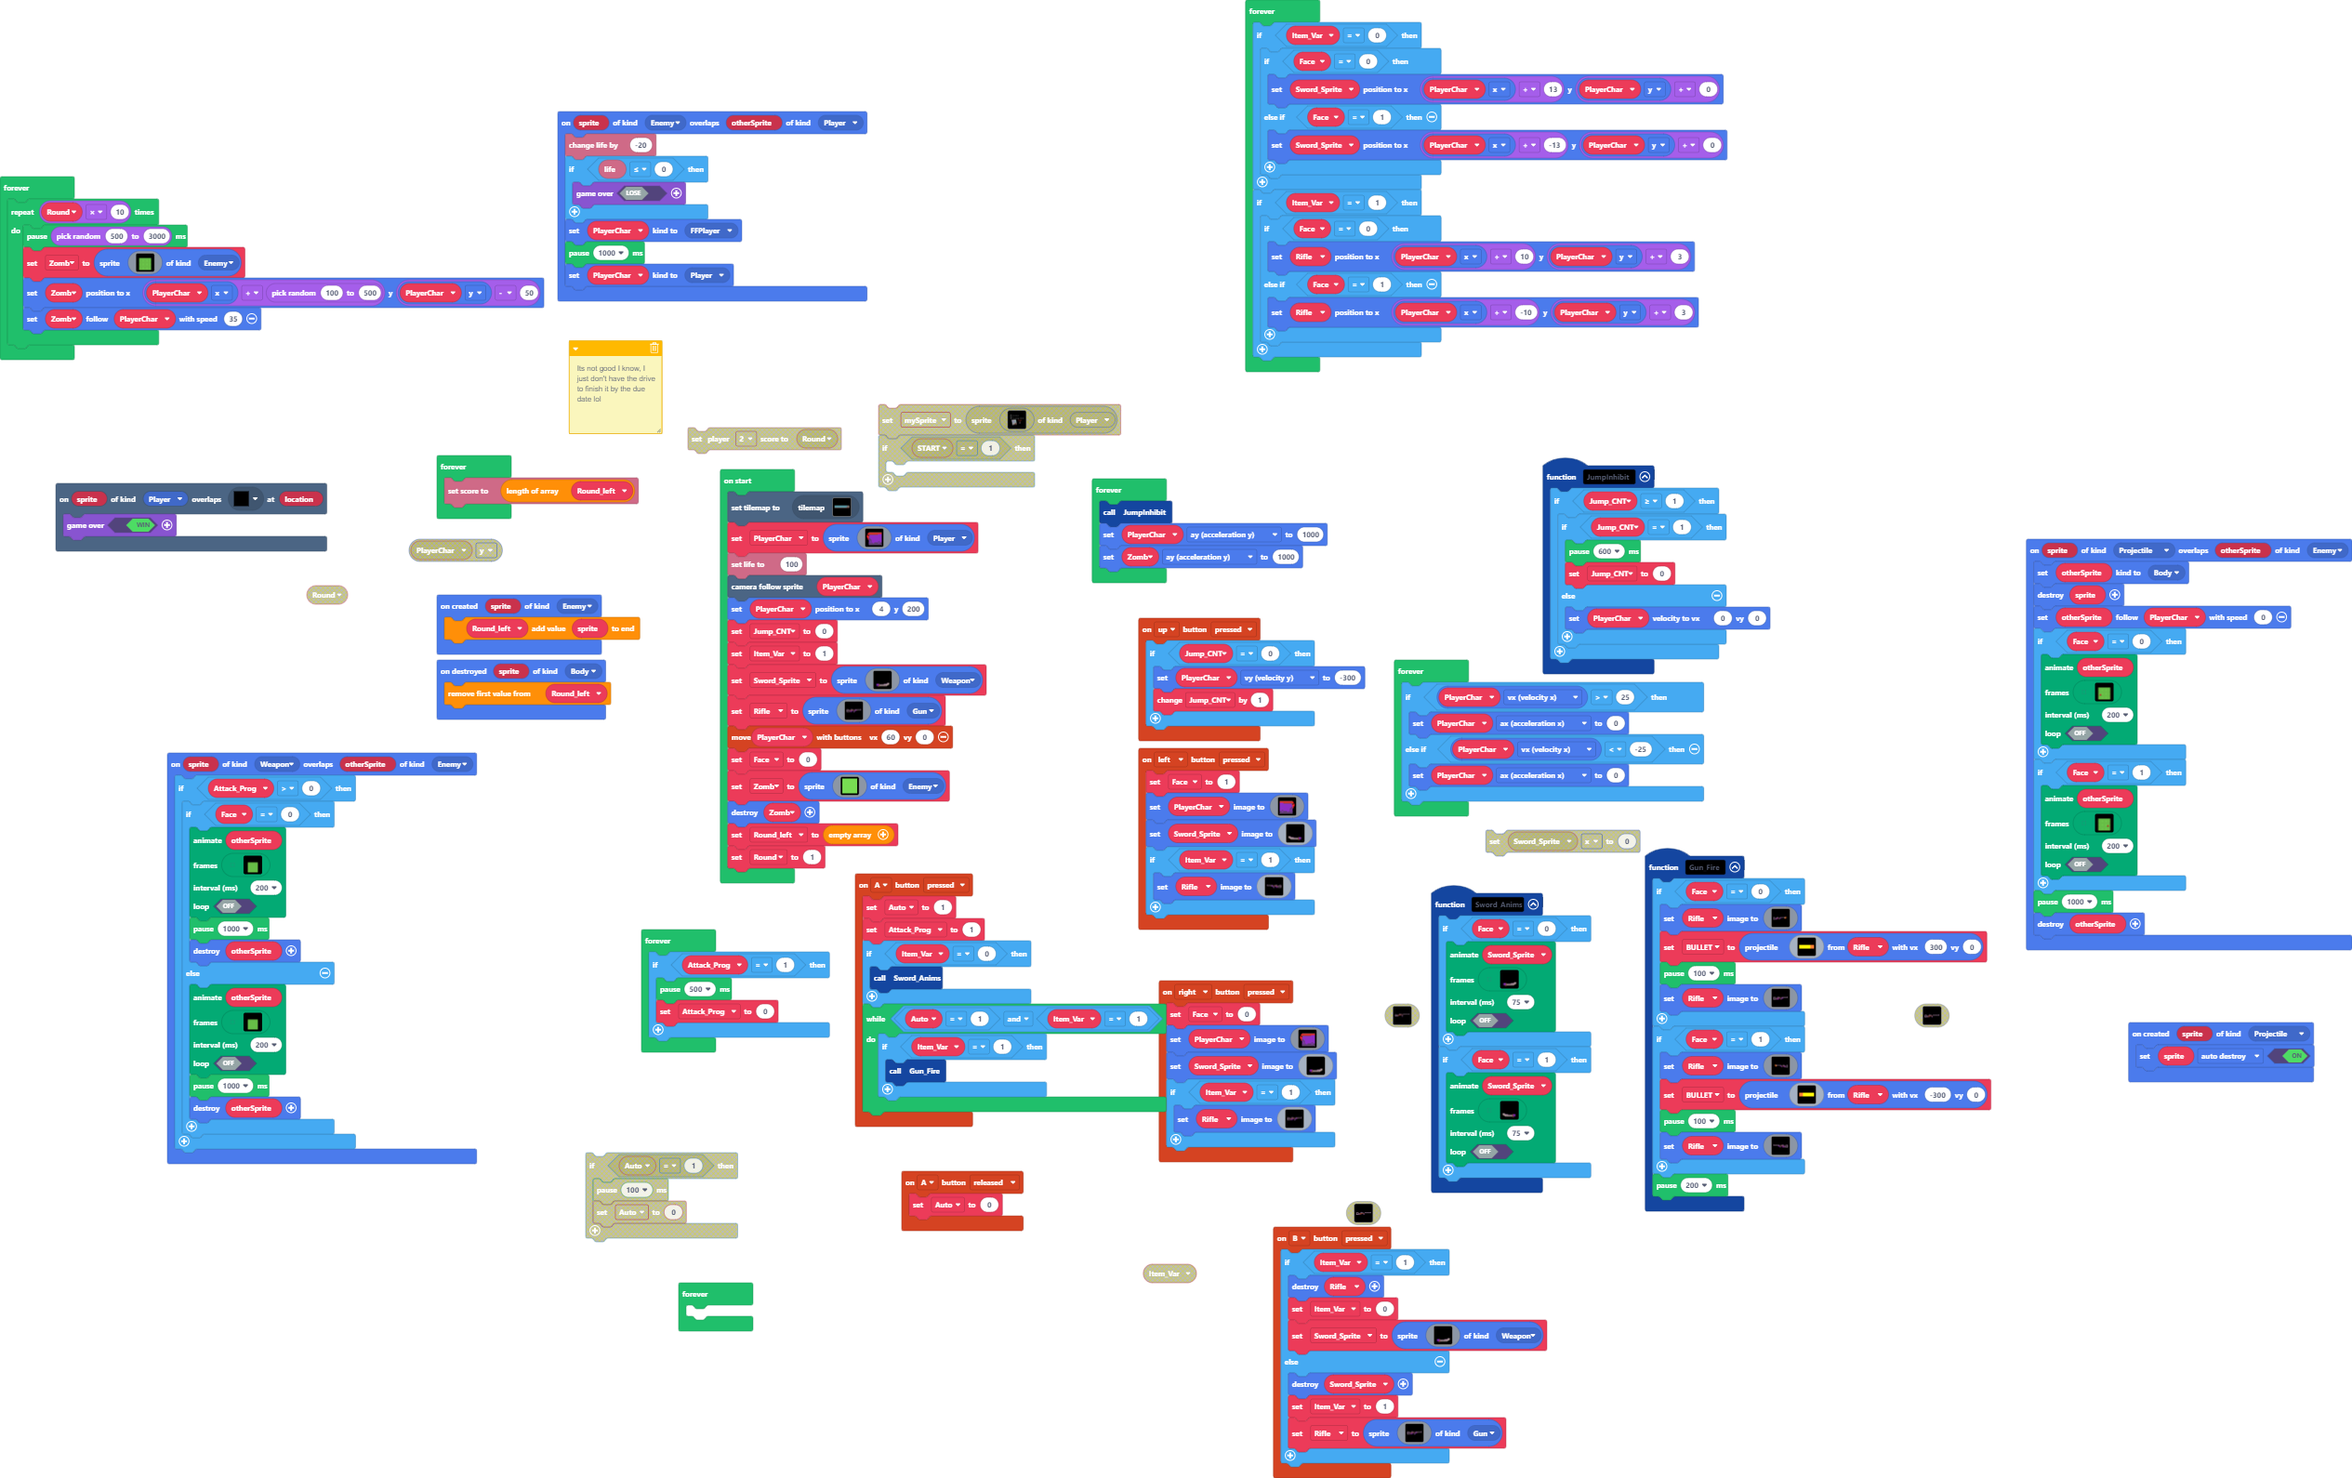
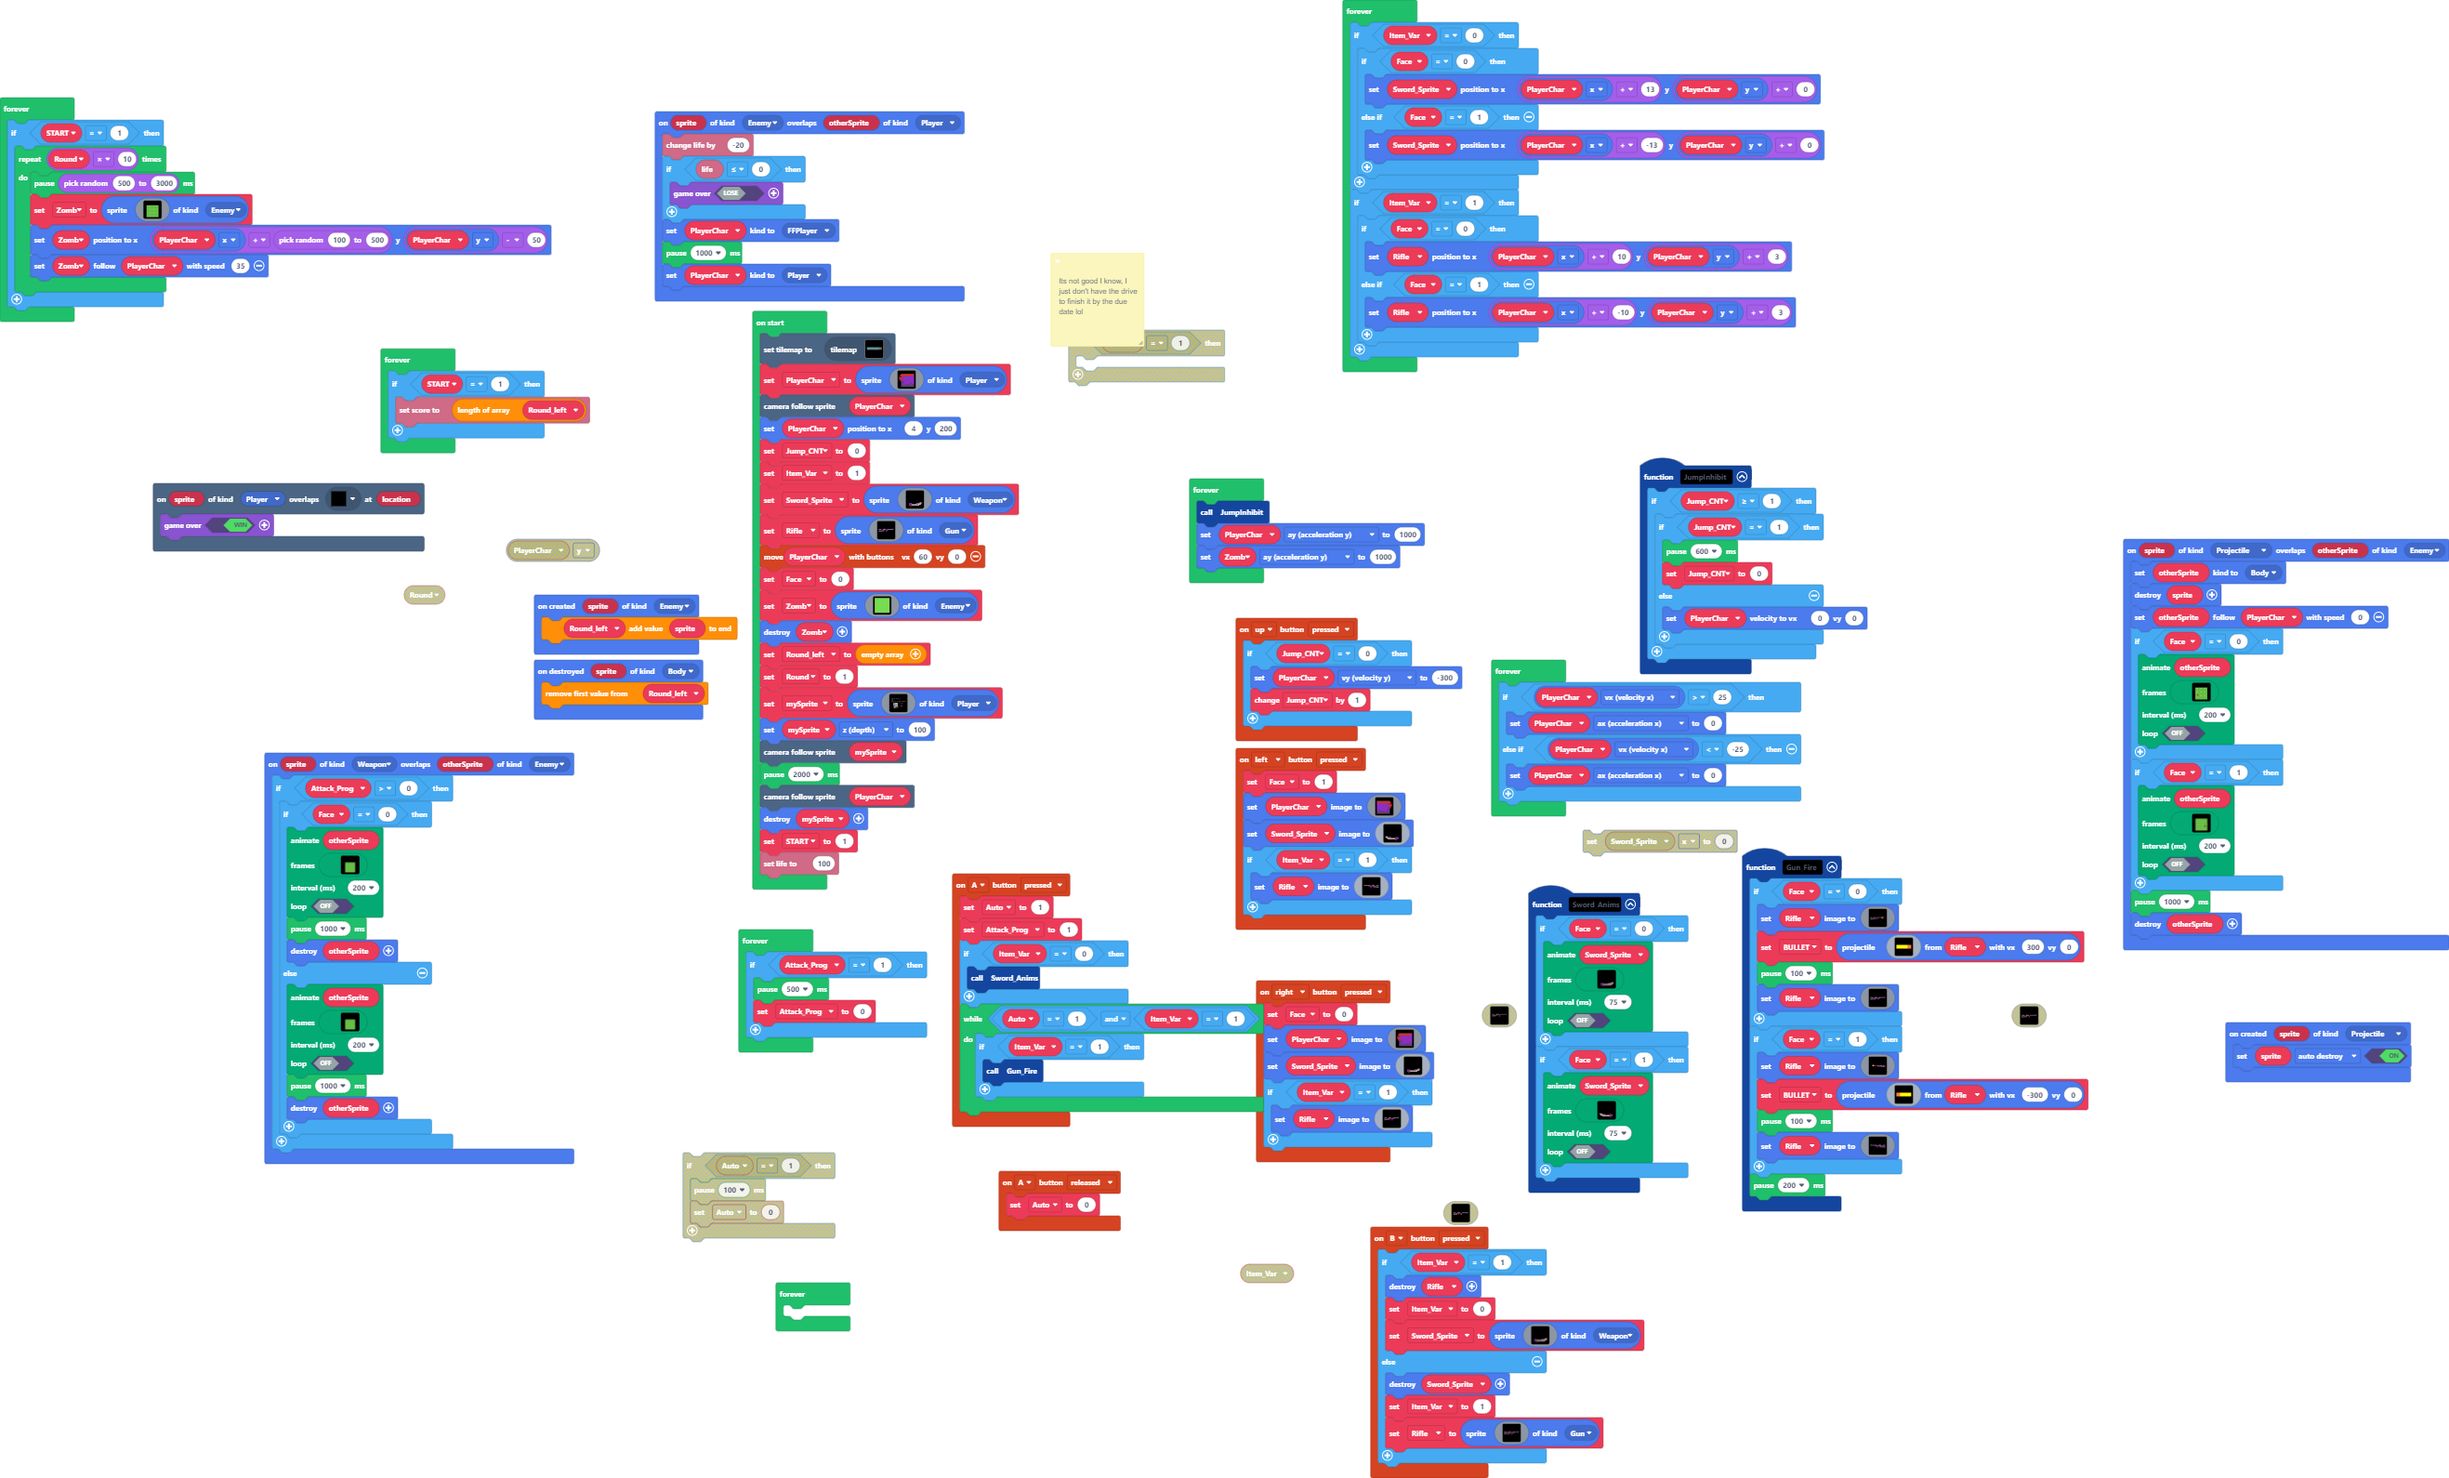
Update main.blocks, main.ts

Changed region(s): [[0.0, 0.0616, 0.968, 1.0], [0.5308, 0.0, 0.7494, 0.2774], [0.9055, 0.678, 0.968, 0.7396]]

diff --git a/main.ts b/main.ts
@@ -1103,7 +1103,6 @@ PlayerChar = sprites.create(img`
     . . c c c c c c c c c c c c c c 
     . . c c c c c c c c c c c c c c 
     `, SpriteKind.Player)
-info.setLife(100)
 scene.cameraFollowSprite(PlayerChar)
 PlayerChar.setPosition(4, 200)
 Jump_CNT = 0
@@ -1162,6 +1161,135 @@ let Zomb = sprites.create(img`
 Zomb.destroy()
 Round_left = []
 let Round = 1
+let mySprite = sprites.create(img`
+    ffffffffffffffffffffffffffffffffffffffffffffffffffffffffffffffffffffffffffffffffffffffffffffffffffffffffffffffffffffffffffffffffffffffffffffffffffffffffffffffff
+    ffffffffffffffffffffffffffffffffffffffffffffffffffffffffffffffffffffffffffffffffffffffffffffffffffffffffffffffffffffffffffffffffffffffffffffffffffffffffffffffff
+    ffffffffffffffffffffffffffffffffffffffffffffffffffffffffffffffffffffffffffffffffffffffffffffffffffffffffffffffffffffffffffffffffffffffffffffffffffffffffffffffff
+    ffffffffffffffffffffffffffffffffffffffffffffffffffffffffffffffffffffffffffffffffffffffffffffffffffffffffffffffffffffffffffffffffffffffffffffffffffffffffffffffff
+    ffffffffffffffffffffffffffffffffffffffffffffffffffffffffffffffffffffffffffffffffffffffffffffffffffffffffffffffffffffffffffffffffffffffffffffffffffffffffffffffff
+    ffffffffffffffffffffffffffffffffffffffffffffffffffffffffffffffffffffffffffffffffffffffffffffffffffffffffffffffffffffffffffffffffffffffffffffffffffffffffffffffff
[22 lines of base64/hex data omitted]
+    ffffffffffffffffffffffffffffffffffffffffffffffffffffffffffffffffffffffffffffffffffffffffffffffffffffffffffffffffffffffffffffffffffffffffffffffffffffffffffffffff
+    ffffffffffffffffffffffffffffffffffffffffffffffffffffffffffffffffffffffffffffffffffffffffffffffffffffffffffffffffffffffffffffffffffffffffffffffffffffffffffffffff
+    ffffffffffffffffffffffffffffffffffffffffffffffffffffffffffffffffffffffffffffffffffffffffffffffffffffffffffffffffffffffffffffffffffffffffffffffffffffffffffffffff
[18 lines of base64/hex data omitted]
+    ffffffffff1f1111fffffffff1ffffffffffffffffffffffffffffffffffffffffffffffffffffffffffffffff11fffff1ffffffffffffffffffffffffffffffffffffffffffffffffffff.fffffffff
+    fffffffffff11ffffffffffff1ffffffffffffffffffffffffffffffffffffffffffffffffffffffffffffffff1ffffff1fffffffffffffffffffffffffffffffffffffffffffffffffffff.ffffffff
+    fffffffffffff111111111111ffffffffffffffffffffffffffffffffffffffffffffffffffffffffffffffffff1fffff1fffffffffffffffffffffffffffffffffffffffffffffffffffff.ffffffff
[3 lines of base64/hex data omitted]
+    ffffffffffffffffffffffffffffffffffffffffffffffffffffffffffffffffffffffffffffffffffffffffffffffffffffffffffffffffffffffffffffffffffffffffffffffffffffffffffffffff
+    ffffffffffffffffffffffffffffffffffffffffffffffffffffffffffffffffffffffffffffffffffffffffffffffffffffffffffffffffffffffffffffffffffffffffffffffffffffffffffffffff
+    ffffffffffffffffffffffffffffffffffffffffffffffffffffffffffffffffffffffffffffffffffffffffffffffffffffffffffffffffffffffffffffffffffffffffffffffffffffffffffffffff
+    fffffffffffffffffffffffffffffffffffffffffffffffffffdddddddddddddddddddffffffffffffffffffffffffffffffffffffffffffffffffffffffffffffffffffffffffffffffffffffffffff
[56 lines of base64/hex data omitted]
+    ffffffffffffffffffffffffffffffddddffffffffffffffffffffffffffffffffffffffffffffffffffffffffffffffffffffffffffffffffffffffffffffffffffffffffffffffffffffffffffffff
+    fffffffffffffffffffffffffffffffdffffffffffffffffffffffffffffffffffffffffffffffffffffffffffffffffffffffffffffffffffffffffffffffffffffffffffffffffffffffffffffffff
+    ffffffffffffffffffffffffffffffffffffffffffffffffffffffffffffffffffffffffffffffffffffffffffffffffffffffffffffffffffffffffffffffffffffffffffffffffffffffffffffffff
+    ffffffffffffffffffffffffffffffffffffffffffffffffffffffffffffffffffffffffffffffffffffffffffffffffffffffffffffffffffffffffffffffffffffffffffffffffffffffffffffffff
+    ffffffffffffffffffffffffffffffffffffffffffffffffffffffffffffffffffffffffffffffffffffffffffffffffffffffffffffffffffffffffffffffffffffffffffffffffffffffffffffffff
+    `, SpriteKind.Player)
+mySprite.z = 100
+scene.cameraFollowSprite(mySprite)
+pause(2000)
+scene.cameraFollowSprite(PlayerChar)
+mySprite.destroy()
+let START = 1
+info.setLife(100)
 forever(function () {
     if (Item_Var == 0) {
         if (Face == 0) {
@@ -1179,36 +1307,40 @@ forever(function () {
     }
 })
 forever(function () {
-    for (let index = 0; index < Round * 10; index++) {
-        pause(randint(500, 3000))
-        Zomb = sprites.create(img`
-            ....................
-            ....................
-            ....................
-            ....................
-            ..7777777777777777..
-            ..7777777777777777..
-            ..7777777777777777..
-            ..7777777777777777..
-            ..7777777777777777..
-            ..7777777777777777..
-            ..7777777777777777..
-            ..7777777777777777..
-            ..7777777777777777..
-            ..7777777777777777..
-            ..7777777777777777..
-            ..7777777777777777..
-            ..7777777777777777..
-            ..7777777777777777..
-            ..7777777777777777..
-            ..7777777777777777..
-            `, SpriteKind.Enemy)
-        Zomb.setPosition(PlayerChar.x + randint(100, 500), PlayerChar.y - 50)
-        Zomb.follow(PlayerChar, 35)
+    if (START == 1) {
+        for (let index = 0; index < Round * 10; index++) {
+            pause(randint(500, 3000))
+            Zomb = sprites.create(img`
+                ....................
+                ....................
+                ....................
+                ....................
+                ..7777777777777777..
+                ..7777777777777777..
+                ..7777777777777777..
+                ..7777777777777777..
+                ..7777777777777777..
+                ..7777777777777777..
+                ..7777777777777777..
+                ..7777777777777777..
+                ..7777777777777777..
+                ..7777777777777777..
+                ..7777777777777777..
+                ..7777777777777777..
+                ..7777777777777777..
+                ..7777777777777777..
+                ..7777777777777777..
+                ..7777777777777777..
+                `, SpriteKind.Enemy)
+            Zomb.setPosition(PlayerChar.x + randint(100, 500), PlayerChar.y - 50)
+            Zomb.follow(PlayerChar, 35)
+        }
     }
 })
 forever(function () {
-    info.setScore(Round_left.length)
+    if (START == 1) {
+        info.setScore(Round_left.length)
+    }
 })
 forever(function () {
     JumpInhibit()
